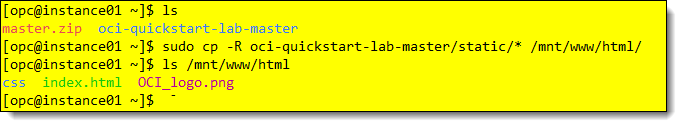
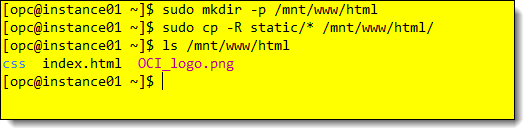
today's final update

Changed region(s): [[0.0, 0.0, 0.9962, 0.9213], [0.0, 0.7323, 0.2415, 0.8504]]

diff --git a/ospa-library/oci/Class-Of-HOL-01/Class-Of-Lab-04.md b/ospa-library/oci/Class-Of-HOL-01/Class-Of-Lab-04.md
@@ -180,7 +180,7 @@ Policies](https://docs.cloud.oracle.com/iaas/Content/Block/Tasks/schedulingvolum
 
 4. In the next steps, we'll download a pre-configured web application and install it on our instance.  Download the application zip file and unzip the package into the opc home directory.  Use the *wget* command to download the static web application.
 
-```wget https://github.com/snafuz/oci-quickstart-lab/archive/master.zip```
+```wget https://github.com/dankingsley001/oci-dev/raw/master/Class-Of-HOL-01/static.zip```
 
 
 ![](./media/image104.png)
@@ -189,7 +189,7 @@ Policies](https://docs.cloud.oracle.com/iaas/Content/Block/Tasks/schedulingvolum
 
 Unzip the file into the opc home directory.
 
-```unzip master.zip```
+```unzip static.zip```
 
 ![](./media/image105.png)
 
